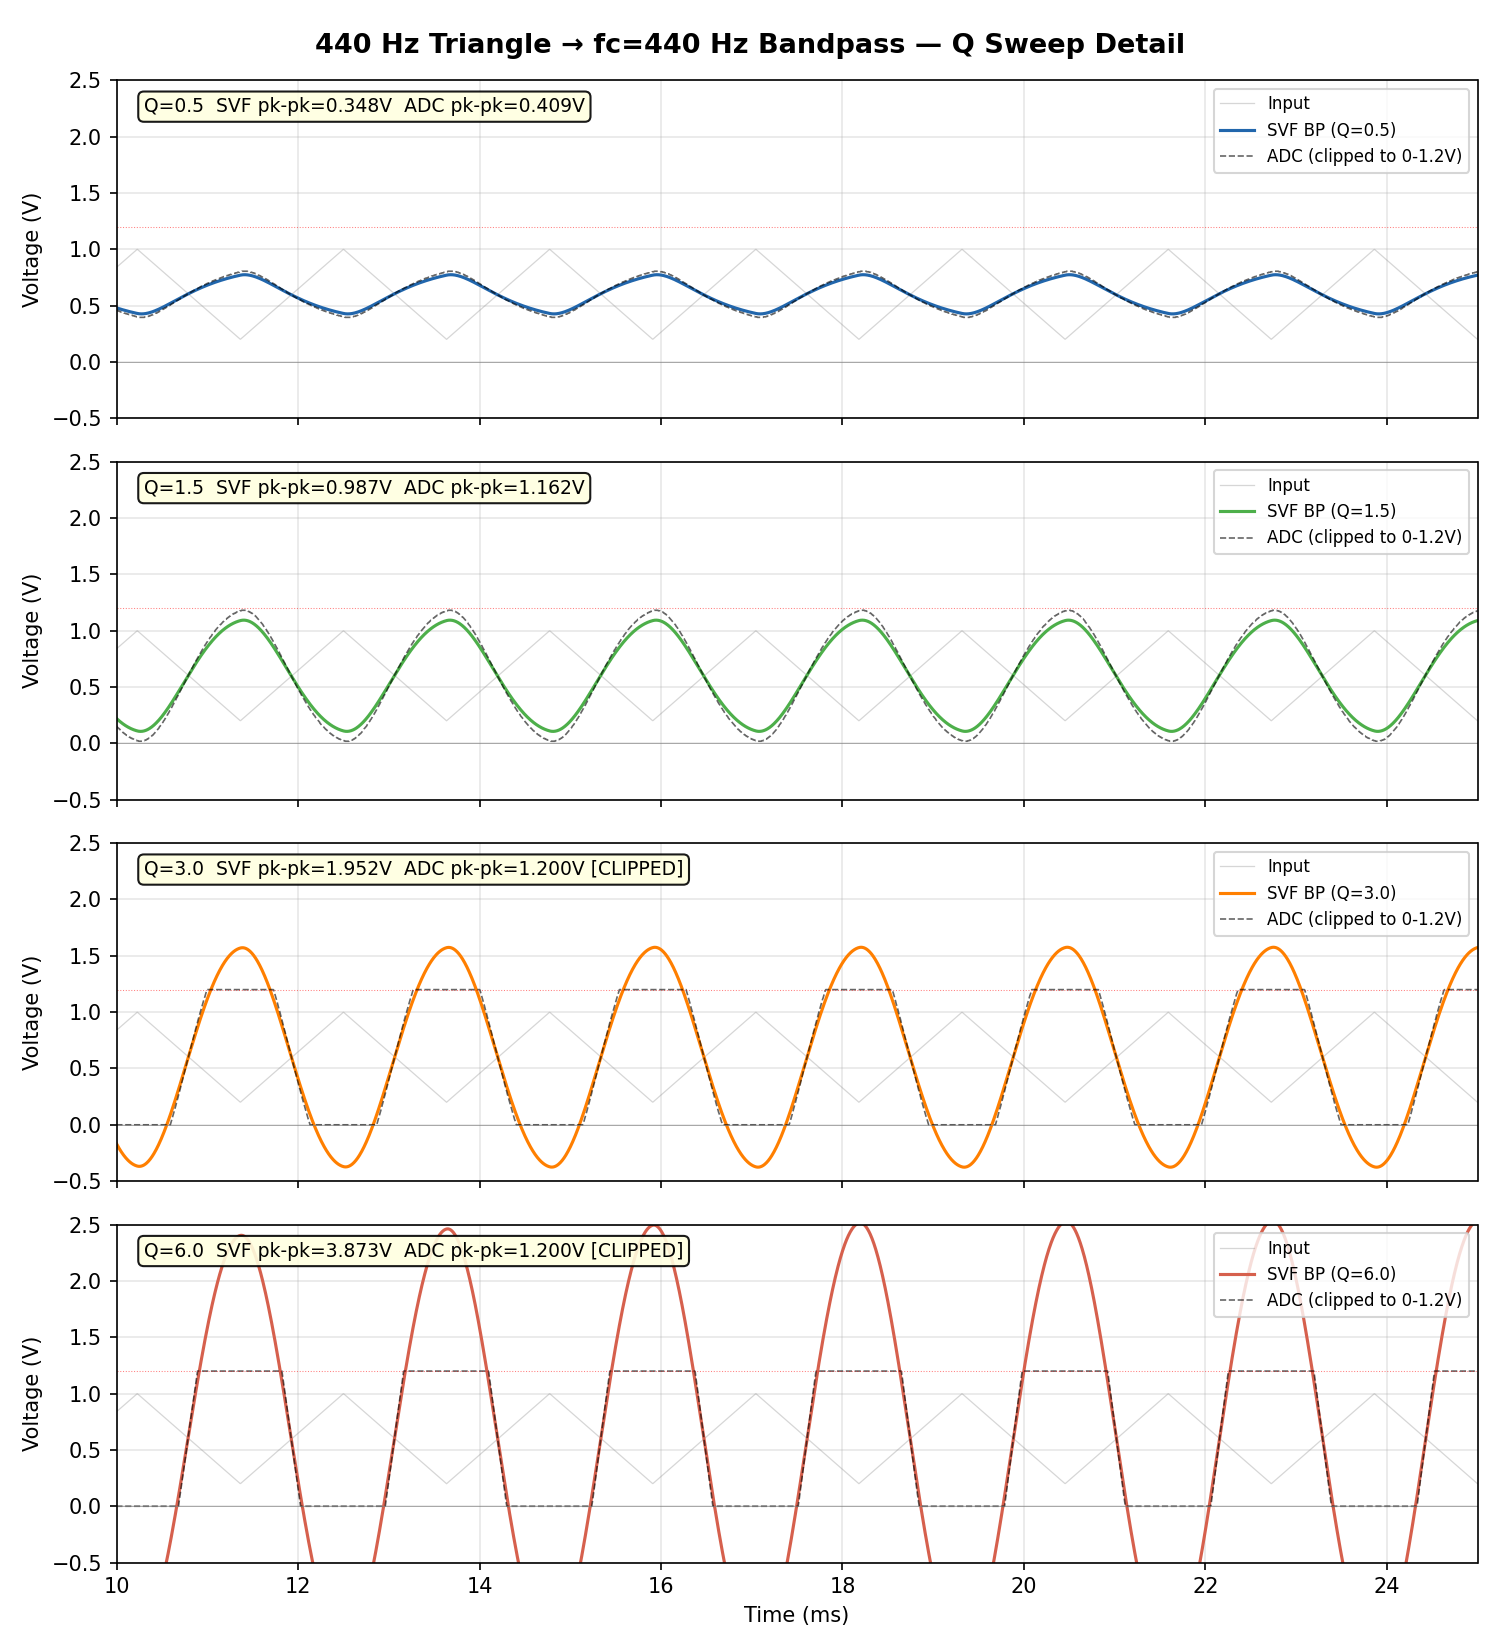
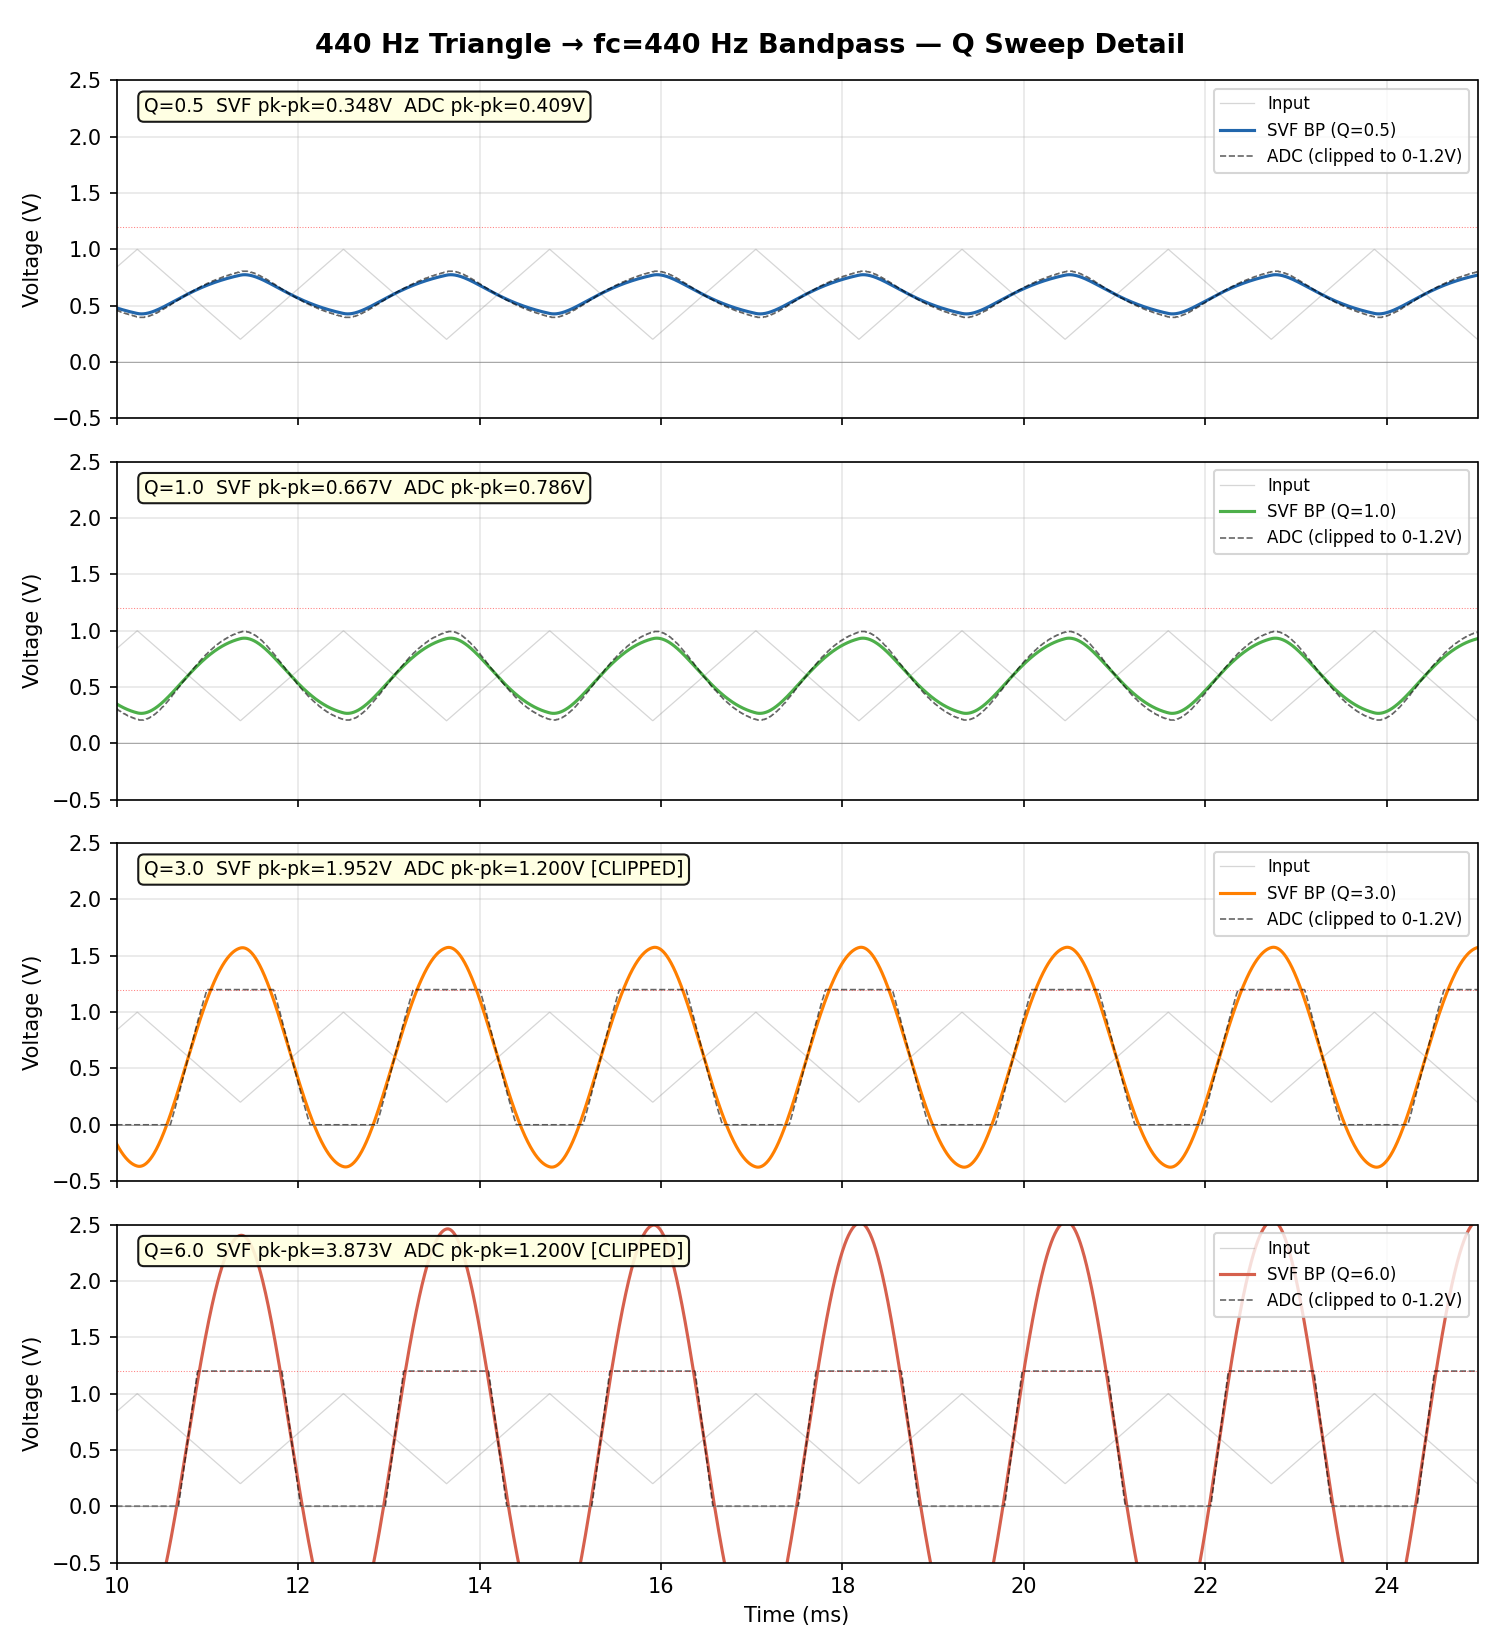
Update Q-sweep to Q=0.5, 1.0, 3.0, 6.0
Replace Q=1.5 with Q=1.0 for cleaner comparison points.
BP peak at 440Hz/fc=440Hz:
  Q=0.5: 0.348V, Q=1.0: 0.667V, Q=3.0: 1.952V, Q=6.0: 3.873V
ADC clips at 1.2V for Q>=3. Regenerated all Q-sweep plots.

diff --git a/analog_sim/plot_tri_q_sweep.py b/analog_sim/plot_tri_q_sweep.py
@@ -23,8 +23,8 @@ plt.rcParams.update({
     'grid.alpha': 0.3,
 })
 
-Q_VALUES = [0.5, 1.5, 3.0, 6.0]
-Q_COLORS = {0.5: '#2166ac', 1.5: '#4daf4a', 3.0: '#ff7f00', 6.0: '#d6604d'}
+Q_VALUES = [0.5, 1.0, 3.0, 6.0]
+Q_COLORS = {0.5: '#2166ac', 1.0: '#4daf4a', 3.0: '#ff7f00', 6.0: '#d6604d'}
 Q_LABELS = {q: f'Q={q}' for q in Q_VALUES}
 
 FREQS = [220, 440, 880]
@@ -106,7 +106,7 @@ for row, freq in enumerate(FREQS):
 axes1[0, 0].set_xlim(0, 25)
 axes1[0, 0].set_ylim(-0.2, 1.6)
 
-fig1.suptitle('SC SVF Bandpass — Q Sweep Comparison (0.5, 1.5, 3.0, 6.0)',
+fig1.suptitle('SC SVF Bandpass — Q Sweep Comparison (0.5, 1.0, 3.0, 6.0)',
               fontsize=13, fontweight='bold')
 fig1.tight_layout()
 fig1.savefig('svf/sc_svf_tri_q_sweep.png', dpi=150)
@@ -156,7 +156,7 @@ for row, freq in enumerate(FREQS):
 axes2[0, 0].set_xlim(0, 25)
 axes2[0, 0].set_ylim(-0.1, 1.3)
 
-fig2.suptitle('Full Chain ADC Output — Q Sweep Comparison (0.5, 1.5, 3.0, 6.0)',
+fig2.suptitle('Full Chain ADC Output — Q Sweep Comparison (0.5, 1.0, 3.0, 6.0)',
               fontsize=13, fontweight='bold')
 fig2.tight_layout()
 fig2.savefig('full_chain/tri_chain_q_sweep.png', dpi=150)
